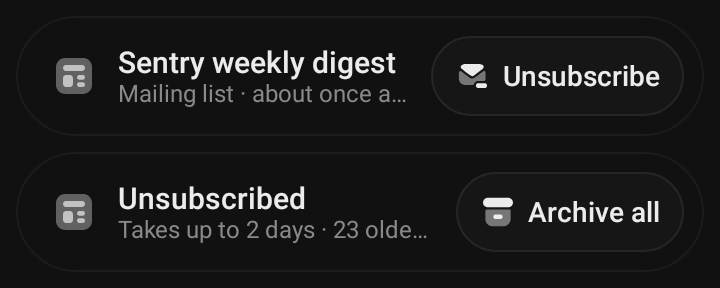
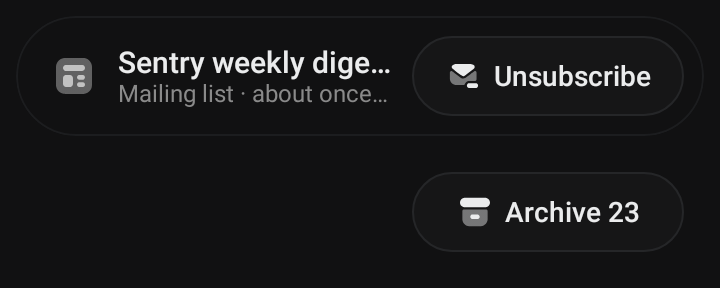
test(designsystem): show the frameless info strip in its screenshot
- The second strip now shows Archive 23 alone, where Unsubscribe was.

diff --git a/designsystem/src/androidHostTest/kotlin/com/otusfoss/core/designsystem/mail/read/components/ReadStripScreenshotTest.kt b/designsystem/src/androidHostTest/kotlin/com/otusfoss/core/designsystem/mail/read/components/ReadStripScreenshotTest.kt
@@ -105,11 +105,13 @@ class ReadStripScreenshotTest {
                     "Mailing list · about once a week",
                     UiAction("Unsubscribe", Res.drawable.symbol_unsubscribe) {},
                 )
+                // After the step only the button stays, where Unsubscribe was.
                 InfoStrip(
                     Res.drawable.symbol_newspaper,
-                    "Unsubscribed",
-                    "Takes up to 2 days · 23 older digests in your mail",
-                    UiAction("Archive all", Res.drawable.symbol_archive) {},
+                    "Sentry weekly digest",
+                    "Mailing list · about once a week",
+                    UiAction("Archive 23", Res.drawable.symbol_archive) {},
+                    framed = false,
                 )
             }
         }
